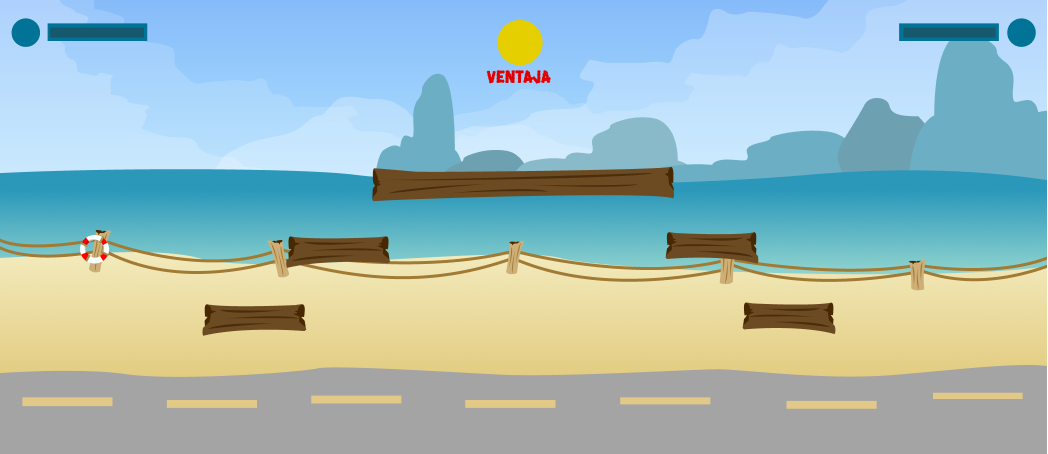
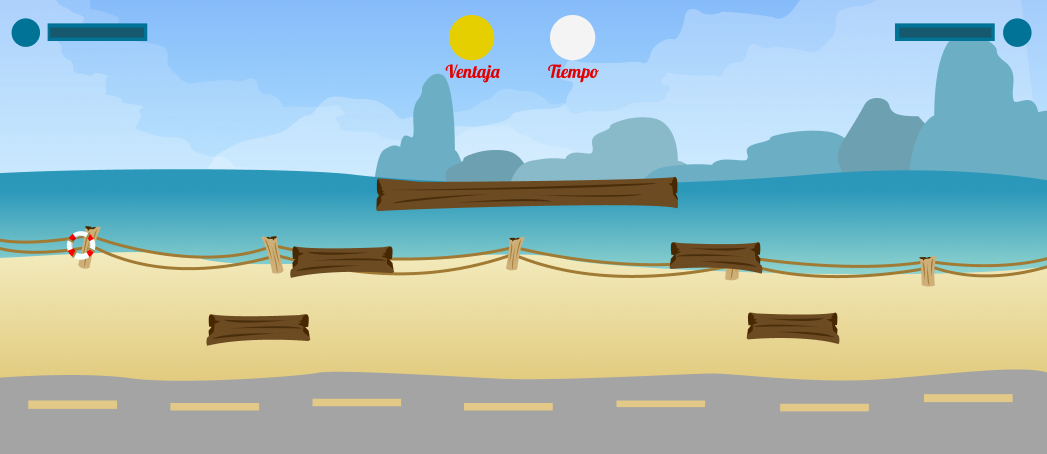
arreglitos de errores

diff --git a/src/main/Main.java b/src/main/Main.java
@@ -14,17 +14,18 @@ import processing.core.PImage;
 
 public class Main extends PApplet implements OnMessageListener{
 	
-	int pantalla;
+	int pantalla, gameTime= 120, players = 0;
 	PImage pantUno, prim, primP, pantInicio, pantPlayer, pantControl, pantInstru, pantJuego, pantGanador, jugar, jugarP,
 	instru, instruP, contro, controP, pasto, atras, atrasP, jugarPP, jugarPPP, player1, player2;
 	
 	String ip, j1,j2;
-	Pig cerdito;
-	Chicken pollito;
-	Elephant elefantico;
+	Pig cerdito1, cerdito2;
+	Chicken pollito1, pollito2;
+	Elephant elefantico1, elefantico2;
 	
-	Boolean j1pig = false, j1elef = false, j1chic = false;
-	
+	Boolean j1pig = false, j1elef = false, j1chic = false, 
+			j2pig = false, j2elef = false, j2chic = false;
+
 	private TCPSingletonJ1 tcpJ1;
 	private TCPSingletonJ2 tcpJ2;
 	
@@ -44,10 +45,6 @@ public class Main extends PApplet implements OnMessageListener{
 		//variables 
 		pantalla = -1;
 		
-		/*cerdito = new Pig (300,345,this);
-		pollito = new Chicken (600, 340, this);
-		elefantico = new Elephant (450, 340, this);*/
-		
 		tcpJ1 = TCPSingletonJ1.getInstance();
 		tcpJ1.setObserver(this);
 		tcpJ1.start();
@@ -55,6 +52,25 @@ public class Main extends PApplet implements OnMessageListener{
 		tcpJ2 = TCPSingletonJ2.getInstance();
 		tcpJ2.setObserver(this);
 		tcpJ2.start();
+		
+		//2 minutos para que alguien gane o pierda
+			new Thread(
+				()-> {
+					while(gameTime > 0) {
+						if(pantalla == 4) {
+							gameTime --;
+						}
+						try {
+							Thread.sleep(1000);
+						} catch (InterruptedException e) {
+							// TODO Auto-generated catch block
+							e.printStackTrace();
+						}
+					}
+				}
+			).start();
+		
+		
 		
 		
 		
@@ -146,18 +162,23 @@ public class Main extends PApplet implements OnMessageListener{
 			if(j1==null) {
 				
 			}else {
-				text(j1, 380,230);
+				text(j1, 400,230);
 			}
 			if(j2==null) {
 				
 			}else {
-				text(j2, 380,300);
+				text(j2, 400,300);
 			}
 			
 			if(mouseX > 930 && mouseX < 1030 && mouseY > 10 && mouseY < 53) {
 				image(jugarPPP, 930,10);
 			}
 			
+			if (players < 1) {
+				fill(350,100,150);
+				textSize(20);
+				text("(Conecta 2 controles para empezar a jugar)", 340,388);
+			}
 			
 			
 			break;
@@ -194,10 +215,20 @@ public class Main extends PApplet implements OnMessageListener{
 				image(player1, 160,373);
 			}
 			if(j1chic==true) {
-				image(player1, 360,373);
+				image(player1, 470,373);
 			}
 			if(j1elef==true) {
-				image(player1, 860,373);
+				image(player1, 770,373);
+			}
+			
+			if(j2pig==true) {
+				image(player2, 160,373);
+			}
+			if(j2chic==true) {
+				image(player2, 470,373);
+			}
+			if(j2elef==true) {
+				image(player2, 770,373);
 			}
 			
 			
@@ -206,23 +237,45 @@ public class Main extends PApplet implements OnMessageListener{
 			//pantalla de juego
 			image(pantJuego,0,0);
 			
-			
+			//pintar jugador 1
 			if(j1pig==true) {
-				cerdito.pintar();
+				cerdito1.pintar();
 			}
 			if(j1chic==true) {
-				pollito.pintar();
+				pollito1.pintar();
 			}
 			if(j1elef==true) {
-				elefantico.pintar();
+				elefantico1.pintar();
 			}
+			
+			
+			//pintar jugador 2
+			if(j2pig==true) {
+				cerdito2.pintar();
+			}
+			if(j2chic==true) {
+				pollito2.pintar();
+			}
+			if(j2elef==true) {
+				elefantico2.pintar();
+			}
+			
+			fill(21,118,147);
+			textSize(15);
+			textAlign(CENTER);
+			text(gameTime, 572,43);
+			
+			
 			
 			/*elefantico.pintarBalas();
 			cerdito.pintarBalas();
 			pollito.pintarBalas();*/
 			
 			
-			image(pasto,0,365);
+			image(pasto,0,385);
+			if(gameTime == 0) {
+				pantalla = 5;
+			}
 			break;
 		case 5:
 			//pantalla ganador-perdedor
@@ -304,10 +357,15 @@ public class Main extends PApplet implements OnMessageListener{
 		case 1:
 			//pantalla controles
 			
+			
+			//debe de haber 2 controles conectados
 			//boton jugar
 			if(mouseX > 930 && mouseX < 1030 && mouseY > 10 && mouseY < 53) {
-				pantalla = 0;
+				if(players == 1) {
+					pantalla = 0;
+				}
 			}
+			
 			break;
 		case 2:
 			//pantalla instrucciones
@@ -333,11 +391,20 @@ public class Main extends PApplet implements OnMessageListener{
 			if(mouseX > 20 && mouseX < 120 && mouseY > 10 && mouseY < 53) {
 				pantalla = 0;
 			}
-			
 			//boton jugar
 			if(mouseX > 930 && mouseX < 1030 && mouseY > 10 && mouseY < 53) {
-				pantalla = 4;
+				
+				//tiene que haber por lo menos 1 personaje seleccionado por juagador
+				if( j1pig == true || j1elef == true || j1chic == true ||
+						j2pig == true || j2elef == true || j2chic == true ) {
+							
+							pantalla = 4;
+							tcpJ1.enviarMensaje("play");
+				}
 			}
+			
+			
+			
 			break;
 		case 5:
 			//pantalla ganador-perdedor
@@ -351,49 +418,80 @@ public class Main extends PApplet implements OnMessageListener{
 	public void cuandoLlegueElMensaje(String msg) {
 		// TODO Auto-generated method stub
 		
-		System.out.println("llego un mensaje:  "+msg);
 		
 		switch(pantalla) {
 		case 1:
 			//controles
 			if(msg.contains("Jugador1")) {
 				j1 = msg;
+				players += 1;
 			}
 			if(msg.contains("Jugador2")) {
 				j2 = msg;
+				players += 1;
 			}
 			break;
 		case 3:
 			//seleccion personajes
 			
+			String[] mensajeR = msg.split("_");
+			
+			String jugador = mensajeR[0];
+			String mensaje = mensajeR[1];
 			
 			Gson gson = new Gson();
-			CoorAnimal coord = gson.fromJson(msg, CoorAnimal.class);
+			CoorAnimal coord = gson.fromJson(mensaje, CoorAnimal.class);
 			String tipo = coord.getType();
 			System.out.println(tipo);
 			
-			switch(tipo) {
+			
+			//si la seleccion es del jugador 1
+			if(jugador.contains("Jugador1")) {
+				switch(tipo) {
 				case "pig":
-					cerdito = new Pig(coord.getPosx(), coord.getPosy(),this);
+					cerdito1 = new Pig(coord.getPosx(), coord.getPosy(),this);
 					j1pig = true;
 					j1elef = false;
 					j1chic = false;
 					break;
 				case "chicken":
-					pollito = new Chicken(coord.getPosx(), coord.getPosy(),this);
+					pollito1 = new Chicken(coord.getPosx(), coord.getPosy(),this);
 					j1pig = false;
 					j1elef = false;
 					j1chic = true;
 					break;
 				case "elephant":
-					elefantico = new Elephant(coord.getPosx(), coord.getPosy(),this);
+					elefantico1 = new Elephant(coord.getPosx(), coord.getPosy(),this);
 					j1pig = false;
 					j1elef = true;
 					j1chic = false;
 					break;
-			
 				}
+			}
 			
+			//si la seleccion es del jugador 2
+			if(jugador.contains("Jugador2")) {
+				switch(tipo) {
+				case "pig":
+					cerdito2 = new Pig(coord.getPosx(), coord.getPosy(),this);
+					j2pig = true;
+					j2elef = false;
+					j2chic = false;
+					break;
+				case "chicken":
+					pollito2 = new Chicken(coord.getPosx(), coord.getPosy(),this);
+					j2pig = false;
+					j2elef = false;
+					j2chic = true;
+					break;
+				case "elephant":
+					elefantico2 = new Elephant(coord.getPosx(), coord.getPosy(),this);
+					j2pig = false;
+					j2elef = true;
+					j2chic = false;
+					break;
+				}
+			}
 			
 			break;
 		}

diff --git a/src/main/TCPSingletonJ1.java b/src/main/TCPSingletonJ1.java
@@ -11,7 +11,7 @@ import java.net.ServerSocket;
 import java.net.Socket;
 
 
-public class TCPSingletonJ1 extends Thread{
+public class TCPSingletonJ1 extends Thread {
 	
 	private static TCPSingletonJ1 unicaInstancia;
 	
@@ -59,7 +59,7 @@ public class TCPSingletonJ1 extends Thread{
 			while(true) {
 				String lastMessage = reader.readLine();
 
-				observer.cuandoLlegueElMensaje(lastMessage);
+				observer.cuandoLlegueElMensaje("Jugador1 _"+lastMessage);
 			}
 			
 		} catch (IOException e) {
@@ -78,7 +78,6 @@ public class TCPSingletonJ1 extends Thread{
 						// TODO Auto-generated catch block
 						e.printStackTrace();
 					}
-					
 				}
 				
 		).start();

diff --git a/src/main/TCPSingletonJ2.java b/src/main/TCPSingletonJ2.java
@@ -57,7 +57,7 @@ public class TCPSingletonJ2 extends Thread{
 			while(true) {
 				String lastMessage = reader.readLine();
 				//System.out.println(lastMessage);
-				observer.cuandoLlegueElMensaje("Jugador2 dice: "+lastMessage);
+				observer.cuandoLlegueElMensaje("Jugador2 _"+lastMessage);
 			}
 			
 		} catch (IOException e) {
